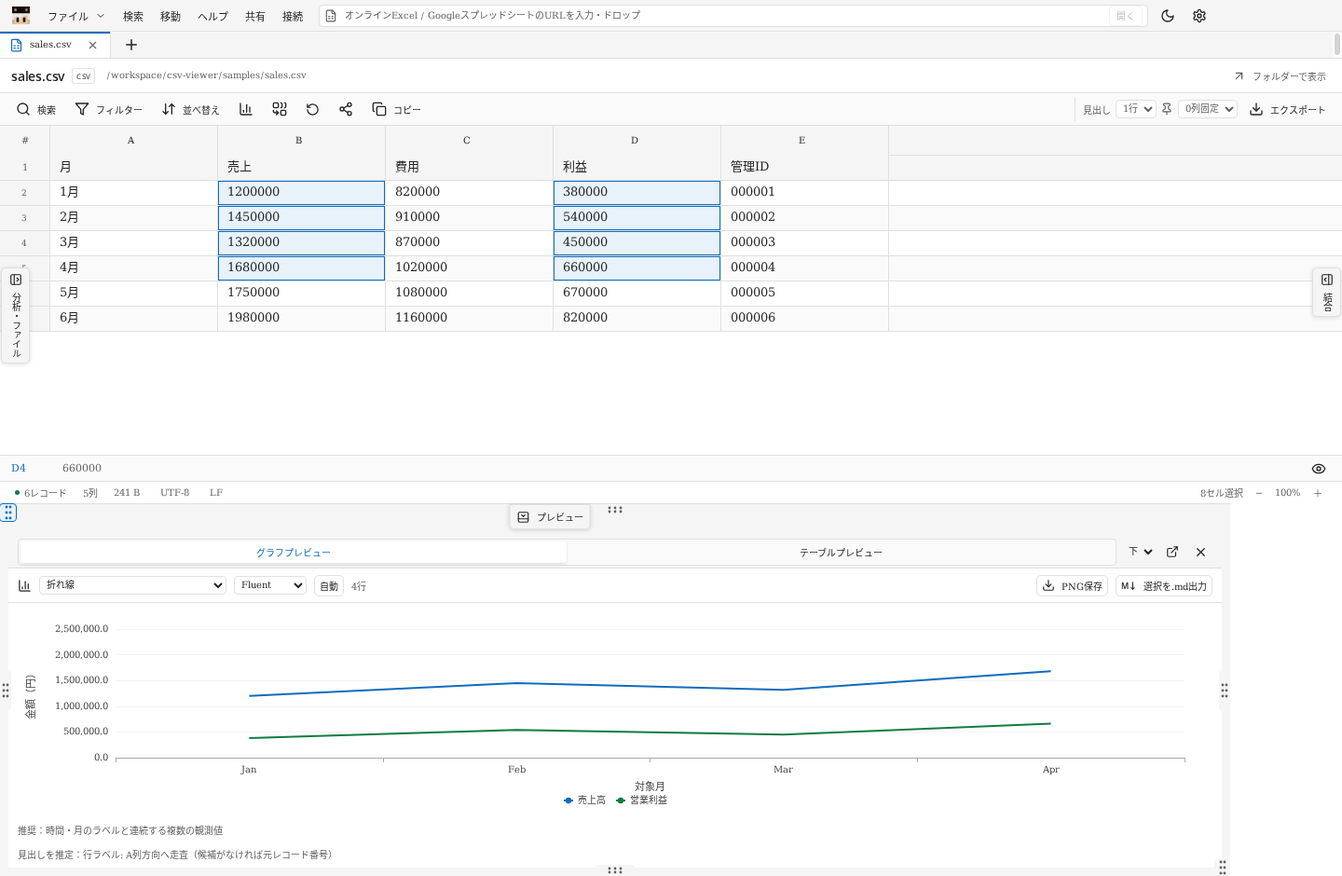
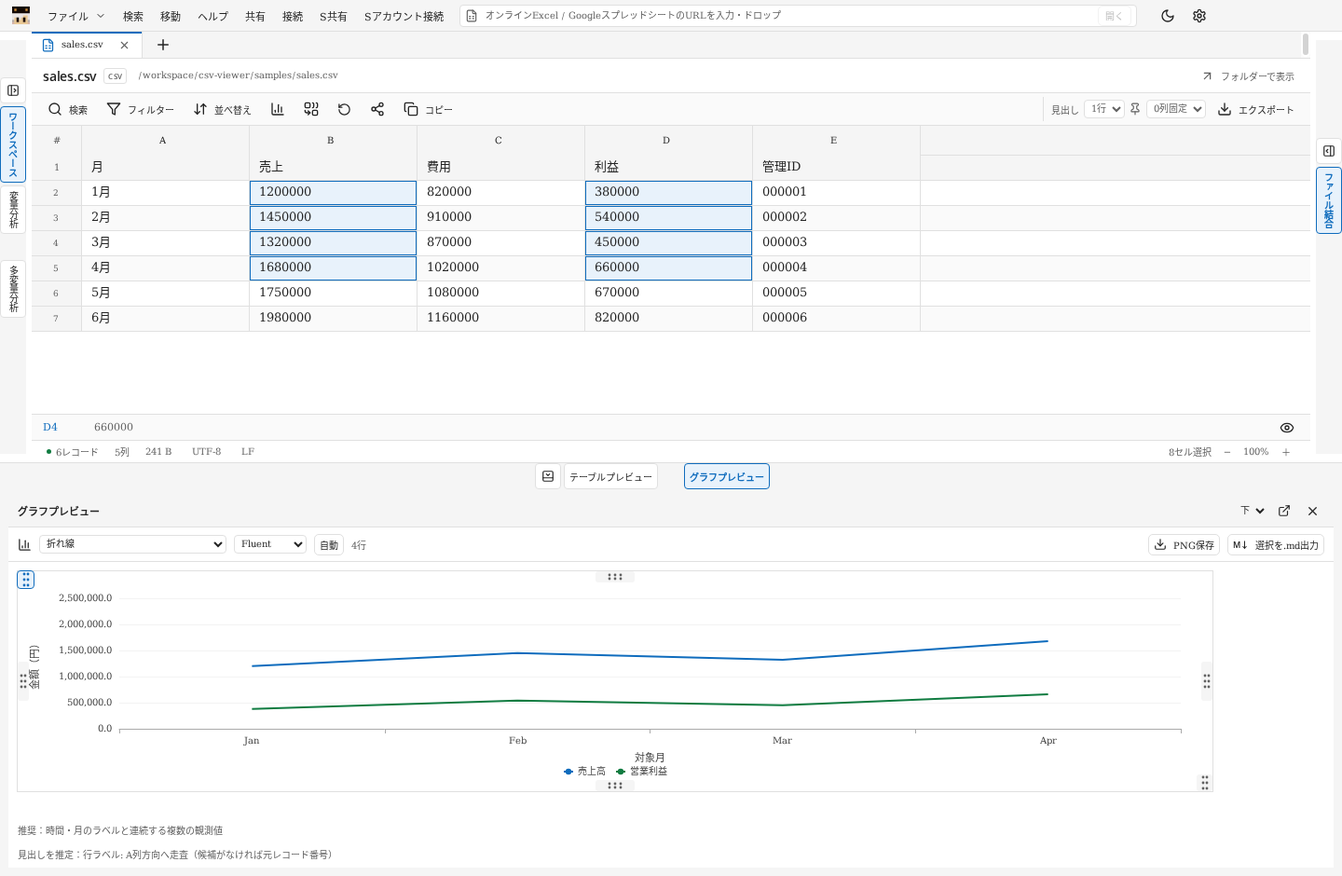
Release v1.5.6: restrict dot handles to chart canvas and calibrate Windows minimum client size

diff --git a/src/style.css b/src/style.css
@@ -18,7 +18,6 @@
 .toolbar{flex-wrap:wrap}.toolgroup{flex-wrap:wrap}
 .editable-chart{position:relative;width:100%;height:100%;min-height:80px}.editable-chart>canvas{width:100%;height:100%}.axis-hit{position:absolute;border:1px solid transparent;border-radius:3px;background:transparent;padding:0;z-index:3;cursor:pointer;outline:0}.axis-hit:hover,.axis-hit.axis-hover,.axis-hit:focus-visible{background:color-mix(in srgb,var(--accent) 12%,transparent);border:1px dashed var(--accent-text)}.axis-edit-hint{display:none;position:absolute;top:-18px;right:0;align-items:center;gap:3px;padding:3px 5px;color:var(--accent-text);background:var(--bg);border:1px solid var(--line);border-radius:3px;font-size:9px;box-shadow:0 2px 6px #0002;white-space:nowrap}.axis-hit:hover .axis-edit-hint,.axis-hit.axis-hover .axis-edit-hint,.axis-hit:focus-visible .axis-edit-hint{display:flex}.axis-editor{position:fixed;z-index:160;width:330px;max-width:calc(100vw - 24px);max-height:calc(100vh - 24px);overflow:auto;padding:13px;background:var(--bg);color:var(--text);border:1px solid var(--line);border-radius:7px;box-shadow:0 8px 30px #0004;font-size:11px;text-align:left}.axis-editor header{display:flex;align-items:center;justify-content:space-between;margin-bottom:10px}.axis-editor header strong{font-size:12px}.axis-editor label{display:flex;flex-direction:column;gap:4px;margin:9px 0;font-size:10px}.axis-editor input,.axis-editor select,.axis-editor textarea{font-size:11px;padding:5px 7px;width:100%}.axis-editor textarea{resize:vertical;font-family:Consolas,'Yu Gothic UI',monospace}.axis-limits{display:flex;gap:10px}.axis-limits label{flex:1;min-width:0}.axis-editor footer{display:flex;justify-content:flex-end;gap:6px;padding-top:10px;border-top:1px solid var(--line);margin-top:12px}.axis-editor footer button{font-size:10px;padding:5px 9px}.axis-error{background:var(--error-bg);color:var(--error-text);padding:7px;font-size:10px;line-height:1.6}.direct-edit-target{cursor:pointer;border-radius:3px;outline:1px solid transparent;outline-offset:3px}.direct-edit-target:hover,.direct-edit-target:focus-visible{outline:1px dashed var(--accent-text);background:var(--accent-soft)}.document-chart .compact-chart{height:200px;min-height:200px}.document-chart .axis-edit-hint{font-size:8px}.document-chart .axis-hit{border-radius:2px}
 
-.dock-grip{position:absolute;display:flex;align-items:center;justify-content:center;z-index:8;padding:0;border:0;border-radius:3px;background:var(--surface2);color:var(--muted);touch-action:none;user-select:none}.dock-grip:hover,.dock-grip:focus-visible,.resizing .dock-grip{background:var(--accent-soft);color:var(--accent-text);outline:1px solid var(--accent-text)}.grip-height{width:42px;height:12px;left:50%;transform:translateX(-50%);cursor:ns-resize}.grip-width{width:12px;height:42px;top:50%;transform:translateY(-50%);cursor:ew-resize}.dock-grip.edge-top{top:0}.dock-grip.edge-bottom{bottom:0}.dock-grip.edge-left{left:0}.dock-grip.edge-right{right:0}.grip-both{width:17px;height:18px;cursor:nwse-resize}.grip-both.edge-top{cursor:nesw-resize}.grip-both.edge-left.edge-top{cursor:nwse-resize}.grip-both.edge-left.edge-bottom{cursor:nesw-resize}
 .dock-boundary{position:absolute;z-index:7;touch-action:none;user-select:none;background:transparent}.boundary-horizontal{left:0;right:0;height:8px;cursor:ns-resize}.boundary-vertical{top:0;bottom:0;width:8px;cursor:ew-resize}.dock-boundary.edge-top{top:0}.dock-boundary.edge-bottom{bottom:0}.dock-boundary.edge-left{left:0}.dock-boundary.edge-right{right:0}.dock-boundary:hover,.dock-boundary:focus-visible{background:var(--accent-soft);outline:1px solid var(--accent-text)}.sidebar{position:relative;min-width:190px;flex-shrink:0;overflow:visible}.sidebar-boundary{position:absolute;right:-3px;top:0;bottom:0;width:7px;z-index:15;cursor:ew-resize;touch-action:none}.sidebar-boundary:hover,.sidebar-boundary:focus-visible{background:var(--accent);opacity:.5}.workbench,.editor-layout{position:relative}.pane-reopen{position:absolute;z-index:20;padding:5px 7px;background:var(--surface2);box-shadow:0 1px 5px #0002;font-size:10px}.reopen-bottom{bottom:1px;left:50%;transform:translateX(-50%)}.reopen-right{right:1px;top:50%;writing-mode:vertical-rl}.reopen-left{left:1px;top:50%;writing-mode:vertical-rl}.grip-width.edge-left{left:0}.grip-width.edge-right{left:auto;right:0}.grip-both{transform:none}
 .grid-head{height:100%;width:100%;position:relative;overflow:visible}.grid-head .header-center{position:absolute;left:22%;width:53%;height:100%;top:0;border:0;border-radius:0;background:transparent;padding:0 4px;gap:4px;font-size:10px;justify-content:center;overflow:hidden}.header-center:hover,.head-selected .header-center{background:var(--accent-soft);color:var(--accent-text);box-shadow:inset 0 0 0 1px var(--accent-text)}.header-center span{white-space:nowrap;overflow:hidden;text-overflow:ellipsis}.header-eye-zone{position:absolute;top:0;left:0;width:22%;height:100%;display:flex;align-items:center;justify-content:center}.header-sort-zone{position:absolute;top:0;right:0;width:25%;height:100%}.grid-head .header-action{width:16px;min-width:16px;height:22px;padding:1px;border:0;background:var(--bg);border-radius:3px;justify-content:center}.visibility-action{opacity:0}.header-eye-zone:hover .visibility-action,.header-eye-zone:focus-within .visibility-action,.head-hidden .visibility-action{opacity:1}.header-sort-actions{display:none;position:absolute;top:0;right:0;height:100%;align-items:center;box-shadow:0 2px 8px #0003;background:var(--bg);border-radius:3px;padding:1px;z-index:30}.header-sort-zone:hover .header-sort-actions,.header-sort-zone:focus-within .header-sort-actions{display:flex}.row-number{padding:0;overflow:visible}.row-number:hover{z-index:30}.row-head .header-sort-actions{height:auto;flex-direction:column;right:0;top:0}.row-head .header-action{height:19px;min-width:17px;width:17px}.row-head .header-center{font-size:9px}.cell-concealed{background:var(--surface3)!important;color:var(--concealed-text)!important;box-shadow:none!important}.head-hidden{background:#8883}.column-header:hover{z-index:30}.head-menu-shield{position:fixed;inset:0;z-index:190;background:transparent}.head-menu{position:fixed;z-index:191;width:200px;max-height:calc(100vh - 30px);overflow:auto;border:1px solid var(--line);border-radius:5px;padding:5px;background:var(--bg);box-shadow:0 5px 25px #0004;font-size:11px}.head-menu small{display:block;color:var(--muted);padding:6px 8px}.head-menu button{display:flex;width:100%;justify-content:flex-start;border:0;font-size:11px;padding:7px 8px}.head-menu-tools{padding:5px;border:1px solid var(--line);border-radius:4px}.head-menu input{width:100%;font-size:10px}.grid-head:has(.header-sort-zone:hover){z-index:30}
 .echart-host{position:absolute;inset:0;width:100%;height:100%}.pane-toolbar select[aria-label="グラフ種類"]{max-width:240px}.pane-toolbar select[aria-label="グラフのカラーセット"]{max-width:125px}.pane-toolbar{flex-wrap:wrap;flex-shrink:0}

diff --git a/src/chart-viewport.tsx b/src/chart-viewport.tsx
@@ -1,0 +1,29 @@
+import React,{useEffect,useLayoutEffect,useRef,useState} from 'react';
+import './chart-viewport.css';
+type Direction='width'|'height'|'both';
+type EdgeX='left'|'right';type EdgeY='top'|'bottom';
+interface Size {width:number;height:number}
+const MINIMUM={width:220,height:140};
+function Dots({vertical=false}:{vertical?:boolean}){return <svg width={vertical?8:16} height={vertical?16:8} viewBox={vertical?'0 0 8 16':'0 0 16 8'} aria-hidden="true">{[0,1,2].flatMap(a=>[0,1].map(b=><circle key={a+'-'+b} cx={vertical?2+b*4:2+a*6} cy={vertical?2+a*6:2+b*4} r="1.4" fill="currentColor"/>))}</svg>;}
+export function ChartViewport({children,onContextMenu}:{children:React.ReactNode;onContextMenu:React.MouseEventHandler<HTMLDivElement>}){
+  const viewport=useRef<HTMLDivElement>(null),[available,setAvailable]=useState<Size>(MINIMUM),[ratios,setRatios]=useState<Size>({width:1,height:1}),[draft,setDraft]=useState<Size|null>(null);
+  const drag=useRef<{x:number;y:number;size:Size;next:Size;direction:Direction;w:EdgeX;h:EdgeY;element:HTMLElement;pointer:number;cursor:string;select:string}|null>(null);
+  const size=draft||{width:Math.max(MINIMUM.width,available.width*ratios.width),height:Math.max(MINIMUM.height,available.height*ratios.height)};
+  function release(){const d=drag.current;if(!d)return;drag.current=null;const body=d.element.ownerDocument.body;body.style.cursor=d.cursor;body.style.userSelect=d.select;if(d.element.hasPointerCapture(d.pointer))d.element.releasePointerCapture(d.pointer);}
+  function cancel(){release();setDraft(null);}
+  useLayoutEffect(()=>{const el=viewport.current!;const measure=()=>{cancel();setAvailable({width:Math.max(MINIMUM.width,el.clientWidth-18),height:Math.max(MINIMUM.height,el.clientHeight-18)});};measure();const observer=new ResizeObserver(measure);observer.observe(el);return()=>observer.disconnect();},[]);
+  useEffect(()=>{const doc=viewport.current!.ownerDocument;const escape=(e:KeyboardEvent)=>{if(e.key==='Escape'&&drag.current){e.preventDefault();cancel();}};doc.addEventListener('keydown',escape);return()=>{release();doc.removeEventListener('keydown',escape);};},[available]);
+  const clamp=(v:number,axis:keyof Size)=>Math.max(MINIMUM[axis],Math.min(available[axis],v));
+  function begin(direction:Direction,w:EdgeX,h:EdgeY,e:React.PointerEvent<HTMLElement>){if(e.button!==0)return;e.preventDefault();e.stopPropagation();const el=e.currentTarget,body=el.ownerDocument.body;drag.current={x:e.clientX,y:e.clientY,size:{...size},next:{...size},direction,w,h,element:el,pointer:e.pointerId,cursor:body.style.cursor,select:body.style.userSelect};body.style.cursor=direction==='width'?'ew-resize':direction==='height'?'ns-resize':'nwse-resize';body.style.userSelect='none';el.setPointerCapture(e.pointerId);}
+  function move(e:React.PointerEvent<HTMLElement>){const d=drag.current;if(!d||e.pointerId!==d.pointer)return;const next={...d.size};if(d.direction!=='height')next.width=clamp(d.size.width+(e.clientX-d.x)*(d.w==='left'?-1:1),'width');if(d.direction!=='width')next.height=clamp(d.size.height+(e.clientY-d.y)*(d.h==='top'?-1:1),'height');d.next=next;setDraft(next);}
+  function finish(){const d=drag.current;if(!d)return;setRatios(old=>({...old,...(d.direction!=='height'?{width:d.next.width/available.width}:{}),...(d.direction!=='width'?{height:d.next.height/available.height}:{})}));release();setDraft(null);}
+  function reset(direction:Direction){cancel();setRatios(old=>({...old,...(direction!=='height'?{width:1}:{}),...(direction!=='width'?{height:1}:{})}));}
+  function key(direction:Direction,w:EdgeX,h:EdgeY,e:React.KeyboardEvent<HTMLElement>){if(e.key==='Home'){e.preventDefault();reset(direction);return;}const step=e.shiftKey?48:16;if(direction!=='height'&&['ArrowLeft','ArrowRight'].includes(e.key)){e.preventDefault();setRatios(old=>({...old,width:clamp(size.width+(e.key==='ArrowRight'?step:-step)*(w==='left'?-1:1),'width')/available.width}));}else if(direction!=='width'&&['ArrowUp','ArrowDown'].includes(e.key)){e.preventDefault();setRatios(old=>({...old,height:clamp(size.height+(e.key==='ArrowDown'?step:-step)*(h==='top'?-1:1),'height')/available.height}));}}
+  const events=(direction:Direction,w:EdgeX,h:EdgeY)=>({onPointerDown:(e:React.PointerEvent<HTMLElement>)=>begin(direction,w,h,e),onPointerMove:move,onPointerUp:finish,onPointerCancel:cancel,onLostPointerCapture:cancel,onDoubleClick:()=>reset(direction),onKeyDown:(e:React.KeyboardEvent<HTMLElement>)=>key(direction,w,h,e)});
+  return <div ref={viewport} className="chart-viewport"><div className="chart-resizable" style={size}>
+    <div className="chart-area" onContextMenu={onContextMenu}>{children}</div>
+    {(['top','bottom'] as const).map(h=><div key={h} className={'chart-grip resize-height edge-'+h} role="separator" tabIndex={0} aria-orientation="horizontal" aria-label={'グラフの高さを調整（'+(h==='top'?'上':'下')+'）'} aria-valuemin={MINIMUM.height} aria-valuemax={available.height} aria-valuenow={size.height} title="ドラッグしてグラフの高さを調整" {...events('height','right',h)}><Dots/></div>)}
+    {(['left','right'] as const).map(w=><div key={w} className={'chart-grip resize-width edge-'+w} role="separator" tabIndex={0} aria-orientation="vertical" aria-label={'グラフの幅を調整（'+(w==='left'?'左':'右')+'）'} aria-valuemin={MINIMUM.width} aria-valuemax={available.width} aria-valuenow={size.width} title="ドラッグしてグラフの幅を調整" {...events('width',w,'bottom')}><Dots vertical/></div>)}
+    {([['top','left','左上'],['bottom','right','右下']] as const).map(([h,w,label])=><button key={label} className={'chart-grip resize-both edge-'+h+' edge-'+w} aria-label={'グラフの幅と高さを調整（'+label+'）'} title="ドラッグしてグラフの幅と高さを調整" {...events('both',w,h)}><Dots vertical/></button>)}
+  </div></div>;
+}

diff --git a/src/panels.tsx b/src/panels.tsx
@@ -3,6 +3,7 @@ import MarkdownIt from 'markdown-it';
 import DOMPurify from 'dompurify';
 import { createPortal } from 'react-dom';
 import { EditableChart } from './editable-chart';
+import {ChartViewport} from './chart-viewport';
 import type { ChartSettings } from './chart-settings';
 import { CHART_KINDS, CHART_FAMILIES, COLOR_SETS, type Palette } from './chart-catalog';
 import { recommendChart } from './chart-recommendation';
@@ -33,7 +34,7 @@ export function Dashboard({ type,setType,settings,onSettingsChange,table,theme,o
   const model=useMemo(()=>table?chartData(table):{labels:[],series:[],precisionWarning:false},[table]);
   async function save(){try{const image=chartHandle.current?.png();if(image)await window.csv.saveChart(image,'png');}catch(e){onError(String(e));}}
   onSaveRef.current=save;onCaptureRef.current=()=>chartHandle.current?.png()||null;
-  return <><div className="pane-toolbar"><BarChart3 size={15}/><select aria-label="グラフ種類" value={type} onChange={e=>setType(e.target.value)}>{CHART_FAMILIES.map(family=><optgroup key={family} label={family}>{CHART_KINDS.filter(kind=>kind.family===family).map(kind=><option key={kind.id} value={kind.id}>{kind.name}</option>)}</optgroup>)}</select><select aria-label="グラフのカラーセット" value={settings.palette||'fluent'} onChange={e=>onSettingsChange({...settings,palette:e.target.value as Palette})}>{Object.entries(COLOR_SETS).map(([id,set])=><option key={id} value={id}>{set.name}</option>)}</select><button disabled={!table} title={table?recommendChart(table).reason:'範囲を選択'} onClick={()=>{if(table)setType(recommendChart(table).type);}}>自動</button><span>{table?.rows.length||0}行</span><button onClick={save} disabled={!model.series.length}><Download size={14}/>PNG保存</button><button onClick={onExport} disabled={!table}><FileMd/>選択を.md出力</button></div><div className="chart-area" onContextMenu={e=>{e.preventDefault();setContext({x:e.clientX,y:e.clientY});}}>{model.series.length&&table?<EditableChart table={table} type={type} settings={settings} onSettingsChange={onSettingsChange} theme={theme} handleRef={chartHandle}/>:<div className="pane-empty"><BarChart3 size={28}/><p>数値を含む範囲を選択すると<br/>グラフがここに表示されます。</p></div>}</div>{table&&<div className="pane-note" title={recommendChart(table).reason}>推奨：{recommendChart(table).reason}</div>}{table?.inferred?.length?<div className="pane-note" title={table.inferred.join('\n')}>見出しを推定：{table.inferred.join(' / ')}</div>:null}{(table?.truncated||model.precisionWarning||['pie','doughnut'].includes(type))&&<div className="pane-note">{table?.truncated?'選択範囲の先頭部分をプレビューしています。 ':''}{model.precisionWarning?'グラフ上の値は浮動小数点で近似されます。元の文字列は保持されます。 ':''}{['pie','doughnut'].includes(type)?'円グラフは先頭の数値列を表示します。負数は棒グラフなどで確認してください。':''}</div>}{context&&<div className="chart-context" style={{left:context.x,top:context.y}} onMouseLeave={()=>setContext(null)}><button onClick={()=>{save();setContext(null);}}><Download size={14}/>画像として保存（PNG）</button></div>}</>;
+  return <><div className="pane-toolbar"><BarChart3 size={15}/><select aria-label="グラフ種類" value={type} onChange={e=>setType(e.target.value)}>{CHART_FAMILIES.map(family=><optgroup key={family} label={family}>{CHART_KINDS.filter(kind=>kind.family===family).map(kind=><option key={kind.id} value={kind.id}>{kind.name}</option>)}</optgroup>)}</select><select aria-label="グラフのカラーセット" value={settings.palette||'fluent'} onChange={e=>onSettingsChange({...settings,palette:e.target.value as Palette})}>{Object.entries(COLOR_SETS).map(([id,set])=><option key={id} value={id}>{set.name}</option>)}</select><button disabled={!table} title={table?recommendChart(table).reason:'範囲を選択'} onClick={()=>{if(table)setType(recommendChart(table).type);}}>自動</button><span>{table?.rows.length||0}行</span><button onClick={save} disabled={!model.series.length}><Download size={14}/>PNG保存</button><button onClick={onExport} disabled={!table}><FileMd/>選択を.md出力</button></div><ChartViewport onContextMenu={e=>{e.preventDefault();setContext({x:e.clientX,y:e.clientY});}}>{model.series.length&&table?<EditableChart table={table} type={type} settings={settings} onSettingsChange={onSettingsChange} theme={theme} handleRef={chartHandle}/>:<div className="pane-empty"><BarChart3 size={28}/><p>数値を含む範囲を選択すると<br/>グラフがここに表示されます。</p></div>}</ChartViewport>{table&&<div className="pane-note" title={recommendChart(table).reason}>推奨：{recommendChart(table).reason}</div>}{table?.inferred?.length?<div className="pane-note" title={table.inferred.join('\n')}>見出しを推定：{table.inferred.join(' / ')}</div>:null}{(table?.truncated||model.precisionWarning||['pie','doughnut'].includes(type))&&<div className="pane-note">{table?.truncated?'選択範囲の先頭部分をプレビューしています。 ':''}{model.precisionWarning?'グラフ上の値は浮動小数点で近似されます。元の文字列は保持されます。 ':''}{['pie','doughnut'].includes(type)?'円グラフは先頭の数値列を表示します。負数は棒グラフなどで確認してください。':''}</div>}{context&&<div className="chart-context" style={{left:context.x,top:context.y}} onMouseLeave={()=>setContext(null)}><button onClick={()=>{save();setContext(null);}}><Download size={14}/>画像として保存（PNG）</button></div>}</>;
 }
 function FileMd(){return <span className="md-icon">M↓</span>;}
 const docMarkdown=new MarkdownIt({html:false,linkify:false});

diff --git a/src/tutorial-steps.ts b/src/tutorial-steps.ts
@@ -7,7 +7,7 @@ export const TUTORIAL_STEPS:TutorialStep[]=[
   {id:'variable',title:'選択範囲の変量分析',targets:['#dock-panel-selection'],paragraphs:['変量分析は、選択範囲の分布、傾向、2項目の関係を調べます。非表示にした行・列は対象から除外します。個別項目を展開すると、法則がある場合はグラフを表示します。','個別グラフをPNGで保存できます。「分析を.md出力」「分析を.xlsx出力」は、折りたたんだ項目も展開済みの内容として出力します。']},
   {id:'multivariate',title:'多変量分析とPCの読み方',targets:['#dock-panel-multivariate'],paragraphs:['分析シート、複数ファイル・シートの選択範囲、すべて、一時テーブルから集計できます。「すべて」は▷を押して実行します。名前で対応付けできない範囲は同じ行位置で比較します。','PC1〜PC3は複数の数値項目をまとめた軸です。グラフ内の「PCと色の見方」で算出方法や色を確認できます。自動除外・合流はチェックボックスで変更でき、3Dではホイール、回転、GIF・OBJ出力を使えます。相関は因果関係を示しません。']},
   {id:'merge',title:'テキスト・表・グラフを結合する',targets:['#dock-panel-merge'],required:true,action:'練習範囲を結合へ追加',paragraphs:['下のボタン、または「選択を追加」で表を結合領域へ追加してください。複数ファイルの範囲、テキスト、グラフをブロックとして組み合わせます。','右上の横向きトグルでプレビュー／.md原文を切り替えます。ブロックにマウスを合わせ、3点のメニューから編集・削除します。「.mdを保存」で1つの文書として出力します。']},
-  {id:'panes',title:'ペインの位置と大きさを変える',targets:['.dock-rail.rail-bottom','.dock-rail','.docking-layout'],action:'グラフを右ペインへ移動',paragraphs:['境界の文字ボタンでタブを切り替え、隣の共通アイコンでその側をまとめて最小化します。閉じている場合はどちらでも展開します。文字ボタンをドラッグし、上下左右へ結合・並べ替えできます。','境界とドット型つまみで共有領域のサイズを調整します。ウィンドウのサイズ変更でもデータ領域との比率を保ち、最小サイズで止まります。別ウィンドウのアイコンで独立表示でき、戻すと元のペインへ戻ります。']},
+  {id:'panes',title:'ペインの位置と大きさを変える',targets:['.dock-rail.rail-bottom','.dock-rail','.docking-layout'],action:'グラフを右ペインへ移動',paragraphs:['境界の文字ボタンでタブを切り替え、隣の共通アイコンでその側をまとめて最小化します。閉じている場合はどちらでも展開します。文字ボタンをドラッグし、上下左右へ結合・並べ替えできます。','境界のドラッグでペインのサイズを調整します。グラフ内のドット型つまみは、グラフの描画領域だけを調整します。ウィンドウのサイズ変更でもデータ領域との比率を保ち、最小サイズで止まります。別ウィンドウのアイコンで独立表示でき、戻すと元のペインへ戻ります。']},
   {id:'search',title:'検索・フィルター・並べ替え',targets:['.findbar','.toolbar'],action:'検索バーを開く',paragraphs:['Ctrl＋Fまたは検索から文字列を探し、F3／Shift＋F3で次／前へ移動します。正規表現やセル全体の一致も選べます。','行・列の見出し中央をクリック／ドラッグして選択します。左側の目のアイコンでグレーアウトし、右側の矢印で昇順・降順・元の順序を選びます。右クリックで表示・フィルター・削除を操作できます。元のファイルを変更せず、表示状態を復元できます。']},
   {id:'documents',title:'Markdownとテキストを直接開く',targets:['.main-panel'],action:'Markdownの練習文書を開く',paragraphs:['Markdownはプレビュー／ソースを切り替え、TXTはカンマや引用符もそのまま表示します。下のボタンで練習文書を開けます。','Markdownの表や文書の選択部分もファイル結合へ追加できます。Excelの数式は保存済みの値を参照し、マクロや数式の再計算は行いません。']},
   {id:'export',title:'別の形式へエクスポートする',targets:['.modal','.toolbar'],action:'エクスポート設定を開く',paragraphs:['ファイル → エクスポート（Ctrl＋Shift＋E）から、形式・範囲・文字コードを選べます。表示中の表や選択範囲をCSV・Markdown・TXTなどの別ファイルへ出力します。','このチュートリアルでは保存する必要はありません。設定を確認し、×で閉じるか「次へ」で進んでください。原本へ上書きせず、閲覧と出力を分けています。']},

diff --git a/src/dock-slot.tsx b/src/dock-slot.tsx
@@ -5,9 +5,6 @@ export type ResizeDirection='width'|'height'|'both';
 export interface PaneLimits {minWidth:number;maxWidth:number;maxWidthLeft?:number;maxWidthRight?:number;minHeight:number;maxHeight:number}
 export interface PaneResize {phase:'begin'|'draft'|'commit'|'cancel'|'reset';direction:ResizeDirection;width:number;height:number;widthEdge:'left'|'right';heightEdge:'top'|'bottom'}
 const names:Record<DockPosition,string>={top:'上',bottom:'下',left:'左',right:'右'};
-function DotGrip({vertical=false}:{vertical?:boolean}){
-  return <svg width={vertical?8:16} height={vertical?16:8} viewBox={vertical?'0 0 8 16':'0 0 16 8'} aria-hidden="true">{[0,1,2].flatMap(a=>[0,1].map(b=><circle key={a+'-'+b} cx={vertical?2+b*4:2+a*6} cy={vertical?2+a*6:2+b*4} r="1.4" fill="currentColor"/>))}</svg>;
-}
 export function DockSlot({position,size,limits,onResize,children,className='',boundaryLabel,onDragOver,onDrop}:{position:DockPosition;size:Required<PaneSize>;limits:PaneLimits;onResize(request:PaneResize):void;children:React.ReactNode;className?:string;boundaryLabel?:string;onDragOver?:React.DragEventHandler<HTMLDivElement>;onDrop?:React.DragEventHandler<HTMLDivElement>}){
   const ref=useRef<HTMLDivElement>(null),drag=useRef<{x:number;y:number;request:PaneResize;next:PaneResize;element:HTMLElement;cursor:string;select:string}|null>(null),callback=useRef(onResize);callback.current=onResize;
   const horizontal=position==='top'||position==='bottom',widthEdge=position==='right'?'left':'right',heightEdge=position==='bottom'?'top':'bottom',label=names[position]+'ペイン';
@@ -33,9 +30,6 @@ export function DockSlot({position,size,limits,onResize,children,className='',bo
   const events=(direction:ResizeDirection,w:'left'|'right'=widthEdge,h:'top'|'bottom'=heightEdge)=>({onPointerDown:(e:React.PointerEvent<HTMLElement>)=>begin(direction,e,w,h),onPointerMove:move,onPointerUp:finish,onPointerCancel:cancel,onLostPointerCapture:cancel,onDoubleClick:()=>reset(direction,w,h),onKeyDown:(e:React.KeyboardEvent<HTMLElement>)=>keyboard(direction,e,w,h)});
   return <div ref={ref} className={`dock-slot ${position} ${className}`} onDragOver={onDragOver} onDrop={onDrop}>
     {children}
-    {(['top','bottom'] as const).map(edge=><div key={edge} className={`dock-grip grip-height edge-${edge}`} role="separator" tabIndex={0} aria-label={label+'の高さを調整（'+(edge==='top'?'上':'下')+'）'} aria-orientation="horizontal" aria-valuemin={limits.minHeight} aria-valuemax={limits.maxHeight} aria-valuenow={size.height} aria-disabled={limits.minHeight===limits.maxHeight} title={horizontal?'上下にドラッグして高さを調整':'高さはウィンドウに合わせて自動調整'} {...events('height',widthEdge,edge)}><DotGrip/></div>)}
-    {(['left','right'] as const).map(edge=><div key={edge} className={`dock-grip grip-width edge-${edge}`} role="separator" tabIndex={0} aria-label={label+'の幅を調整（'+(edge==='left'?'左':'右')+'）'} aria-orientation="vertical" aria-valuemin={limits.minWidth} aria-valuemax={(edge==='left'?limits.maxWidthLeft:limits.maxWidthRight)??limits.maxWidth} aria-valuenow={size.width} aria-disabled={limits.minWidth===limits.maxWidth} title={limits.minWidth===limits.maxWidth?'左右ペインを開くとデータ領域と横幅を調整できます':'左右にドラッグして幅を調整'} {...events('width',edge,heightEdge)}><DotGrip vertical/></div>)}
-    {([['top','left','左上'],['bottom','right','右下']] as const).map(([h,w,name])=><button key={name} className={`dock-grip grip-both edge-${h} edge-${w}`} aria-label={label+'の幅と高さを調整（'+name+'）'} title="斜めにドラッグして共有領域のサイズを調整" {...events('both',w,h)}><DotGrip vertical/></button>)}
     <div role="separator" tabIndex={0} aria-label={boundaryLabel||label+'とデータの境界'} aria-orientation={horizontal?'horizontal':'vertical'} className={`dock-boundary edge-${horizontal?heightEdge:widthEdge} ${horizontal?'boundary-horizontal':'boundary-vertical'}`} {...events(horizontal?'height':'width')}/>
   </div>;
 }

diff --git a/src/docking.css b/src/docking.css
@@ -6,7 +6,6 @@
 .docking-layout .welcome-art{flex-shrink:0}
 .docking-layout .welcome h1{font-size:clamp(20px,2.2vw,32px);max-width:100%;overflow-wrap:anywhere;text-align:center}
 .docking-layout .welcome-features{flex-wrap:wrap;justify-content:center;gap:14px}
-.dock-grip[aria-disabled=true]{cursor:default}
 .docking-editor{grid-area:center;position:relative;display:flex;min-width:0;min-height:0;overflow:hidden}
 .docking-editor.has-rail-left{padding-left:34px}.docking-editor.has-rail-right{padding-right:34px}
 .docking-editor.has-rail-top{padding-top:30px}.docking-editor.has-rail-bottom{padding-bottom:30px}
@@ -14,7 +13,7 @@
 .dock-content-host,.dock-tab-content,.pane-content{display:flex;flex-direction:column;flex:1;min-width:0;min-height:0;overflow:hidden}
 .workspace-content{display:flex;flex-direction:column;flex:1;min-height:0;padding:10px 8px;background:var(--surface)}
 .pane-content>.analysis-panel{flex:1;min-height:0;overflow:auto;padding:8px;background:var(--surface)}
-.pane-content:has(>.chart-area){overflow:auto}.pane-content>.chart-area{flex:1 0 150px;min-height:150px}
+.pane-content:has(>.chart-viewport){overflow:auto}
 .dock-rail{position:absolute;z-index:20;display:grid;gap:0;background:var(--surface2);min-width:0;min-height:0}
 .rail-section{display:flex;align-items:stretch;gap:3px;min-width:0;min-height:0;overflow:auto;scrollbar-width:none;padding:0 1px}
 .rail-section::-webkit-scrollbar{display:none}.rail-section:first-child{justify-content:safe flex-end}.rail-section:last-child{justify-content:flex-start}
@@ -41,4 +40,4 @@
 .pane-dragging .dock-rail{outline:1px dashed var(--accent-text);outline-offset:-1px}
 /* Empty strip space leaves the boundary draggable; controls keep their own hits. */
 .dock-rail{pointer-events:none}.dock-edge-tab,.boundary-toggle{pointer-events:auto}
-.docking-layout .dock-boundary{z-index:22}.docking-layout .dock-grip{z-index:23}
+.docking-layout .dock-boundary{z-index:22}

diff --git a/src/docking.tsx b/src/docking.tsx
@@ -23,7 +23,7 @@ export function Docking({layout,onChange,prefs,ready,onPreferences,content,tools
   useLayoutEffect(()=>{if(!ready||!bounds.width||!bounds.height||initial)return;const seed=initialDockRatios(bounds,layout,prefs);setInitial(seed);onPreferences({dockRatios:seed});},[ready,bounds.width,bounds.height,initial]);
   const ratios:DockRatios={...(initial||initialDockRatios(bounds,layout,prefs)),...prefs.dockRatios},calculated=dockGeometry(bounds,layout,ratios),geometry=draft||calculated,minCenter=centerMinimum(layout);
   const windowMinimum=dockWindowMinimum(layout);
-  useEffect(()=>{if(ready)window.csv.dockMinimum(windowMinimum).catch(()=>{});},[ready,windowMinimum.width,windowMinimum.height]);
+  useEffect(()=>{if(ready)window.csv.dockMinimum(windowMinimum).catch(()=>{});},[ready,windowMinimum.width,windowMinimum.height,bounds.width,bounds.height]);
   function limits(position:DockPosition):PaneLimits {
     if(horizontal(position)){const donor=crossWidthDonor(geometry,'right'),other=position==='top'?'bottom':'top',maximum=(edge:'left'|'right')=>{const id=crossWidthDonor(geometry,edge);return id?geometry.centerWidth+geometry.tracks[id]-geometry.minimums[id]:geometry.centerWidth;};return {minWidth:donor?minCenter.width:geometry.centerWidth,maxWidth:maximum('right'),maxWidthLeft:maximum('left'),maxWidthRight:maximum('right'),minHeight:geometry.minimums[position],maxHeight:geometry.height-geometry.tracks[other]-minCenter.height};}
     const other=position==='left'?'right':'left';return {minWidth:geometry.minimums[position],maxWidth:geometry.width-geometry.tracks[other]-minCenter.width,minHeight:geometry.height,maxHeight:geometry.height};

diff --git a/src/chart-viewport.css b/src/chart-viewport.css
@@ -1,0 +1,9 @@
+.chart-viewport{flex:1 0 180px;min-width:0;min-height:180px;width:100%;overflow:auto;padding:9px}
+.chart-resizable{position:relative;flex:none;min-width:220px;min-height:140px;padding:9px;border:1px solid var(--line);background:var(--bg)}
+.chart-resizable>.chart-area{width:100%;height:100%;min-height:0;padding:0;flex:none}
+.chart-grip{position:absolute;display:flex;align-items:center;justify-content:center;z-index:25;padding:0;border:0;border-radius:3px;background:var(--surface2);color:var(--muted);touch-action:none;user-select:none}
+.chart-grip:hover,.chart-grip:focus-visible{background:var(--accent-soft);color:var(--accent-text);outline:1px solid var(--accent-text)}
+.chart-grip.resize-height{width:42px;height:12px;left:50%;transform:translateX(-50%);cursor:ns-resize}
+.chart-grip.resize-width{width:12px;height:42px;top:50%;transform:translateY(-50%);cursor:ew-resize}
+.chart-grip.edge-top{top:0}.chart-grip.edge-bottom{bottom:0}.chart-grip.edge-left{left:0}.chart-grip.edge-right{right:0}
+.chart-grip.resize-both{width:17px;height:18px;cursor:nwse-resize}
